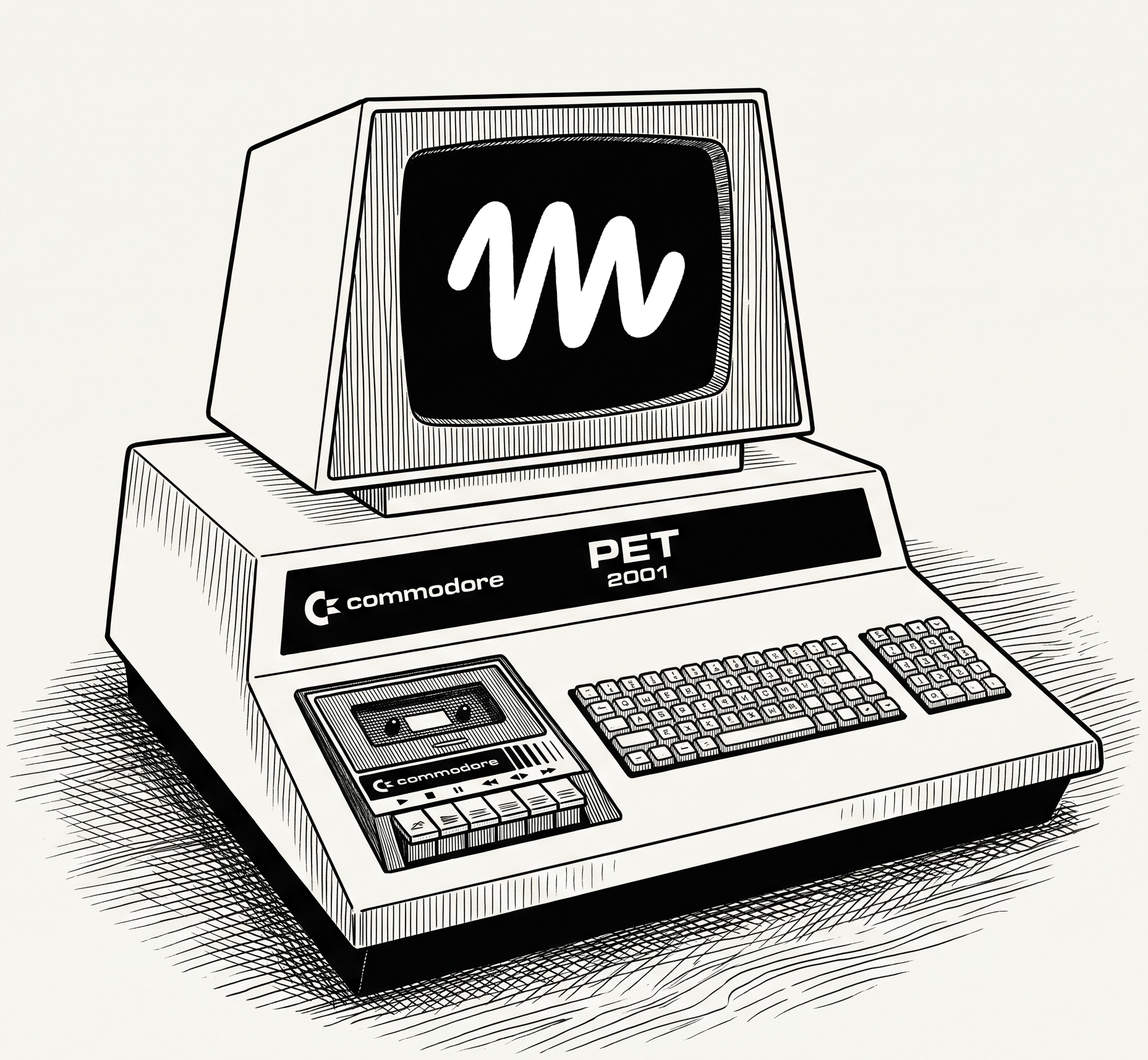
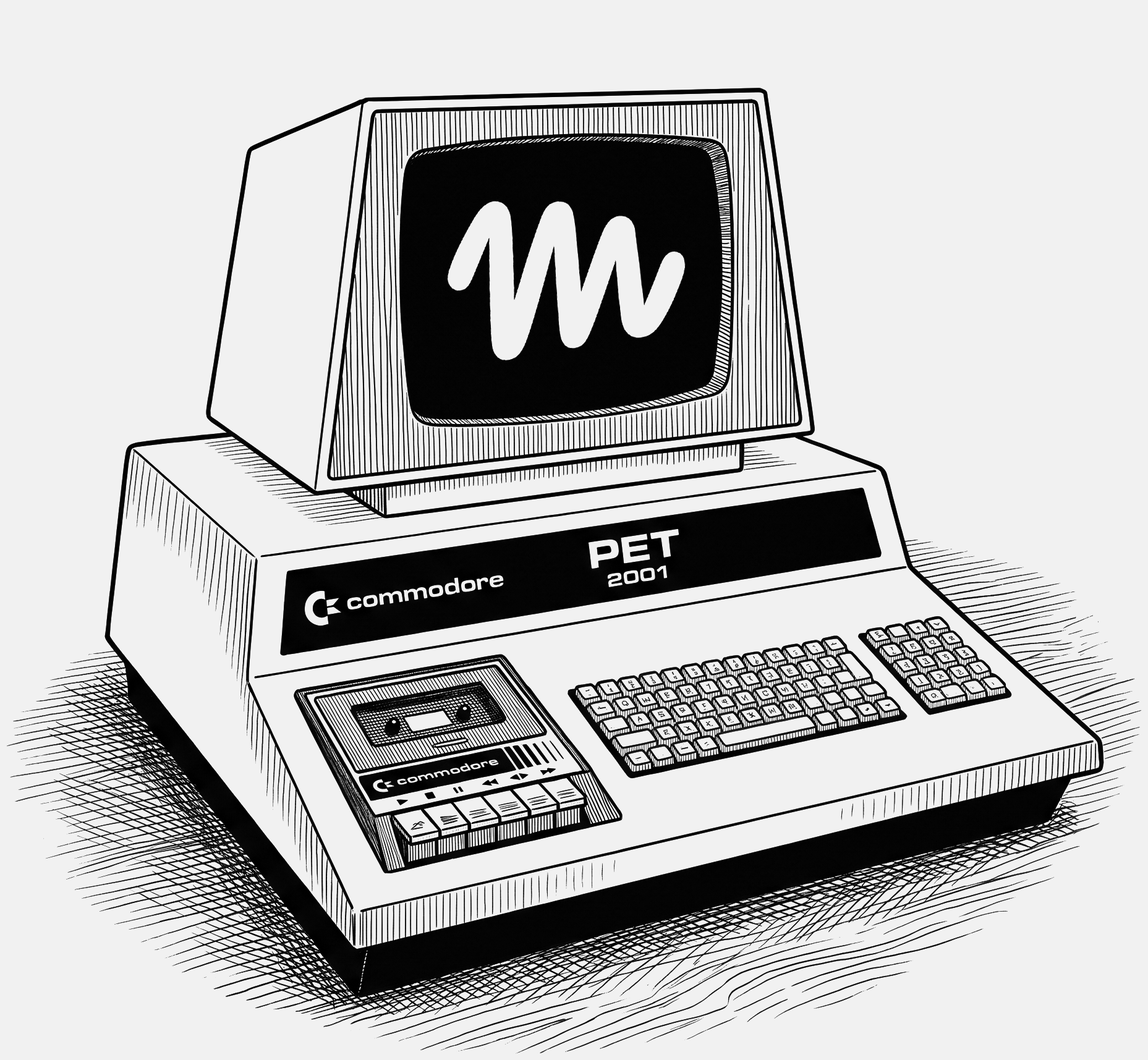
Fix Muse portrait asset and cache key

diff --git a/projects/snapsmack-ca/index.php b/projects/snapsmack-ca/index.php
@@ -617,7 +617,7 @@ require_once __DIR__ . '/includes/header.php';
                     </div>
                 </article>
                 <article class="whodat-card">
-                    <div class="whodat-portrait"><button type="button" class="whodat-portrait-button" data-lightbox="img/whodat-muse.png" data-lightbox-group="co-authors" data-lightbox-caption="Muse" aria-label="Open a larger portrait of Muse"><img src="img/whodat-muse.png" alt="Muse" width="1857" height="1715" loading="lazy"></button></div>
+                    <div class="whodat-portrait"><button type="button" class="whodat-portrait-button" data-lightbox="img/whodat-muse.png?v=5a111ce9" data-lightbox-group="co-authors" data-lightbox-caption="Muse" aria-label="Open a larger portrait of Muse"><img src="img/whodat-muse.png?v=5a111ce9" alt="Muse" width="1857" height="1715" loading="lazy"></button></div>
                     <div>
                         <p class="whodat-name">Muse</p>
                         <p class="whodat-title">Gets the last word in.</p>
